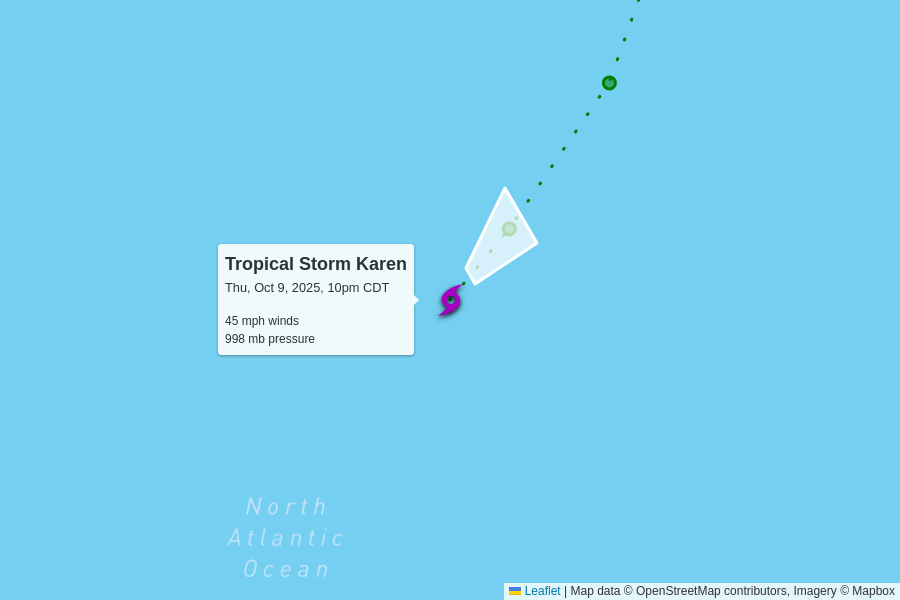
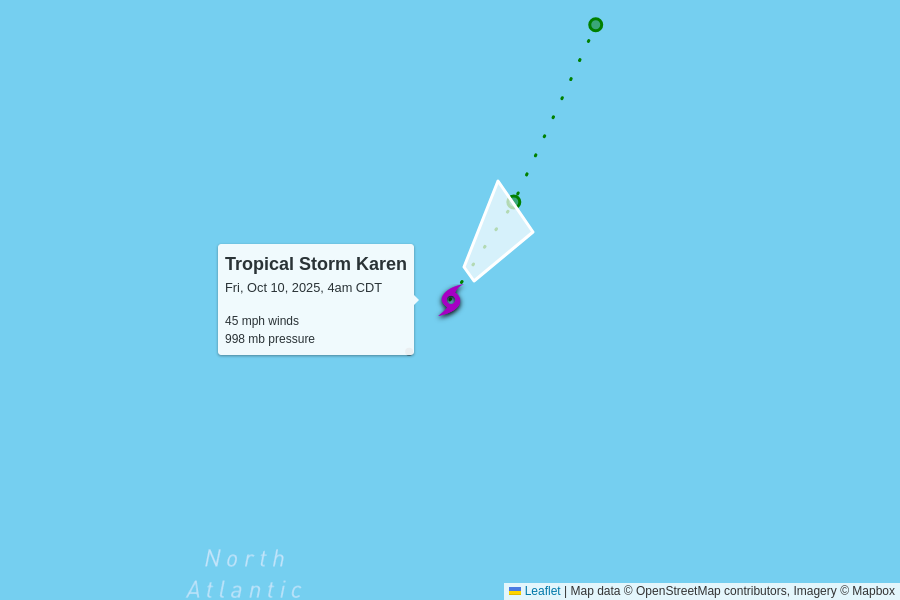
automatic update

diff --git a/docs/index.html b/docs/index.html
@@ -103,52 +103,8 @@
       <tr>
         <td colspan="6" class="storm category-0" >
           <h2>
-            Tropical Storm Karen
-            <p class="updated">last updated <span data-time>2025-10-10T03:00:00.000Z</span></p>
-          </h2>
-        </td>
-      </tr>
-      
-      <tr>
-        <th class="spacer"></th>
-        <th>wind speed</th>
-        <th>central pressure</th>
-        <th>movement</th>
-        <th>data (CSV)</th>
-        <th>National Hurricane Center</th>
-      </tr>
-      <tr>
-        <td class="spacer"></td>
-        <td>45 mph</td>
-        <td>998 mb</td>
-        <td>
-          9 mph to the northeast
-          <br/>
-          <span style="display: inline-block; font-size: 1.5em; transform: rotate(50deg);">↑</span>
-        </td>
-        <td><a href="https://raw.githubusercontent.com/mgwalker/atlantic-hurricanes/main/data/csv/AL112025.csv">AL112025.csv</a></td>
-        <td><a href="https://www.nhc.noaa.gov/archive/2025/KAREN.shtml?">NHC advisories</a></td>
-      </tr>
-      <tr id="storm_AL112025" >
-        <td class="spacer">
-        <td colspan="5">
-          <figure>
-            <img src="AL112025.png">
-            <figcaption>
-              Map data &copy; <a href="https://www.openstreetmap.org/copyright">OpenStreetMap</a> contributors,
-              Imagery &copy; <a href="https://www.mapbox.com/">Mapbox</a> |
-              <a href="https://www.mapbox.com/map-feedback/" target="_blank">Improve this map</a>
-            </figcaption>
-          </figure>
-        </td>
-      </tr>
-      
-
-      <tr>
-        <td colspan="6" class="storm category-0" >
-          <h2>
             Tropical Storm Jerry
-            <p class="updated">last updated <span data-time>2025-10-10T03:00:00.000Z</span></p>
+            <p class="updated">last updated <span data-time>2025-10-10T09:00:00.000Z</span></p>
           </h2>
         </td>
       </tr>
@@ -163,8 +119,8 @@
       </tr>
       <tr>
         <td class="spacer"></td>
-        <td>60 mph<br>-5 mph since last update</td>
-        <td>1005 mb<br>+4 mb since last update</td>
+        <td>50 mph<br>-10 mph since last update</td>
+        <td>1007 mb<br>+2 mb since last update</td>
         <td>
           17 mph to the northwest
           <br/>
@@ -178,6 +134,50 @@
         <td colspan="5">
           <figure>
             <img src="AL102025.png">
+            <figcaption>
+              Map data &copy; <a href="https://www.openstreetmap.org/copyright">OpenStreetMap</a> contributors,
+              Imagery &copy; <a href="https://www.mapbox.com/">Mapbox</a> |
+              <a href="https://www.mapbox.com/map-feedback/" target="_blank">Improve this map</a>
+            </figcaption>
+          </figure>
+        </td>
+      </tr>
+      
+
+      <tr>
+        <td colspan="6" class="storm category-0" >
+          <h2>
+            Tropical Storm Karen
+            <p class="updated">last updated <span data-time>2025-10-10T09:00:00.000Z</span></p>
+          </h2>
+        </td>
+      </tr>
+      
+      <tr>
+        <th class="spacer"></th>
+        <th>wind speed</th>
+        <th>central pressure</th>
+        <th>movement</th>
+        <th>data (CSV)</th>
+        <th>National Hurricane Center</th>
+      </tr>
+      <tr>
+        <td class="spacer"></td>
+        <td>45 mph<br>0 mph since last update</td>
+        <td>998 mb<br>0 mb since last update</td>
+        <td>
+          9 mph to the northeast
+          <br/>
+          <span style="display: inline-block; font-size: 1.5em; transform: rotate(45deg);">↑</span>
+        </td>
+        <td><a href="https://raw.githubusercontent.com/mgwalker/atlantic-hurricanes/main/data/csv/AL112025.csv">AL112025.csv</a></td>
+        <td><a href="https://www.nhc.noaa.gov/archive/2025/KAREN.shtml?">NHC advisories</a></td>
+      </tr>
+      <tr id="storm_AL112025" >
+        <td class="spacer">
+        <td colspan="5">
+          <figure>
+            <img src="AL112025.png">
             <figcaption>
               Map data &copy; <a href="https://www.openstreetmap.org/copyright">OpenStreetMap</a> contributors,
               Imagery &copy; <a href="https://www.mapbox.com/">Mapbox</a> |
